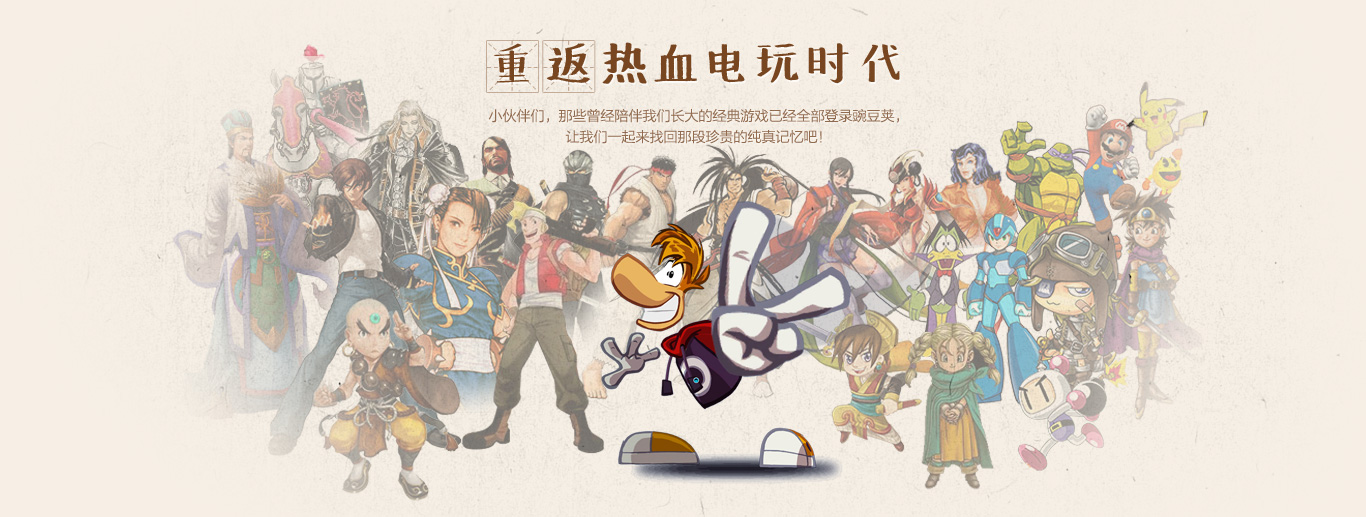
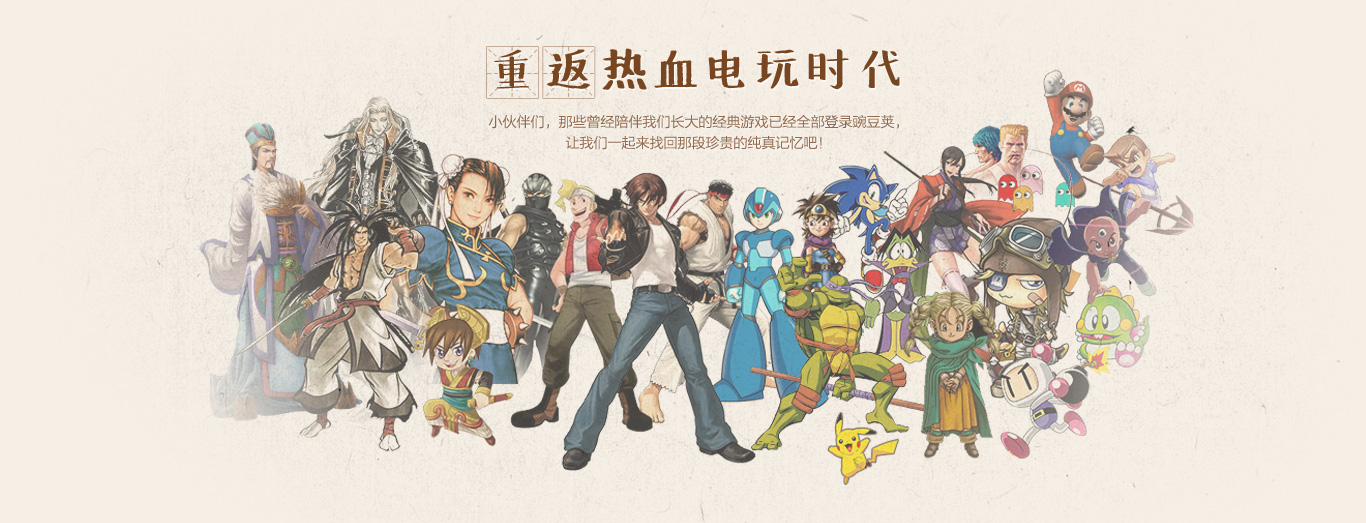
Fucking UBI

diff --git a/app/statics/campaign/retrogames.html b/app/statics/campaign/retrogames.html
@@ -7,7 +7,7 @@
     <meta name="kewords" content="安卓软件,安卓游戏,安卓软件下载,安卓游戏下载" >
     <meta name="description" content="编辑精选安卓HD平板应用专区专题，好玩的安卓软件和游戏尽在豌豆荚。" >
     <link rel="stylesheet" href="http://s.wdjimg.com/www/stylesheets/www/35716122.index.css"/>
-    <link rel="stylesheet" href="stylesheet/min_blood_web.css">
+    <link rel="stylesheet" href="stylesheet/blood_web.css">
 </head>
 <body>
 <!-- header -->
@@ -26,61 +26,8 @@
 <div class="b-topic">
     <h1>重返热血电玩时代</h1>
 </div>
+
 <div class="b-bg1">
-    <div class="b-container clearfix">
-        <div class="b-bigitem b-bgimg1">
-            <div class="b-app b-app-left">
-                <div class="b-app-icon">
-                    <a href="http://www.wandoujia.com/apps/com.pastagames.ro1mobile" target="_blank">
-                        <img alt="雷曼：丛林探险" src="http://img.wdjimg.com/campaign/retrogames/icon5122_TransBG.png" />
-                        <i class="b-app-first">首发</i>
-                    </a>
-                </div>
-                <div class="b-app-title"><a href="http://www.wandoujia.com/apps/com.pastagames.ro1mobile" target="_blank">雷曼：丛林探险</a></div>
-                <div class="b-app-install"><a class="button-green b-button-medium" href="http://apps.wandoujia.com/apps/com.pastagames.ro1mobile/download?pos=www/qr/dl">安 装</a></div>
-            </div>
-            <div class="b-detail">
-                <p>豌豆荚 <span class="b-c-green">独家首发</span></p>
-                <div class="b-step">
-                    <div class="b-step-title">参与方式</div>
-                    <div class="b-step-num b-c-green">1</div>
-                    <div class="b-step-desc">
-                        <span class="b-inner">
-                            通关后<span class="b-c-green">截图</span>
-                        </span>
-                        <i> </i>
-                    </div>
-                    <div class="b-step-next"> </div>
-                    <div class="b-step-num b-c-green">2</div>
-                    <div class="b-step-desc">
-                        <span class="b-inner">
-                            发微博写下一句话的<br/>
-                            <span class="b-c-green">游戏心得</span>
-                        </span>
-                        <i> </i>
-                    </div>
-                    <div class="b-step-next"> </div>
-                    <div class="b-step-num b-c-green">3</div>
-                    <div class="b-step-desc">
-                        <span class="b-inner">
-                            加话题 <span class="b-c-green">#重返热血电玩时代#</span><br/>
-                            <span class="b-c-green">@豌豆荚</span>
-                        </span>
-                        <i> </i>
-                    </div>
-                    <div class="b-step-next"> </div>
-                    <div class="b-step-share"><a target="_blank" href="http://service.weibo.com/share/share.php?appkey=1483181040&relateUid=1727978503&url=http%3A%2F%2Fwww.wandoujia.com%2Fcampaign%2Fretrogames.html&pic=http%3A%2F%2Fimg.wdjimg.com%2Fcampaign%2Fretrogames%2Fn_topic_wap.jpg&title=%23%E9%87%8D%E8%BF%94%E7%83%AD%E8%A1%80%E7%94%B5%E7%8E%A9%E6%97%B6%E4%BB%A3%23%20%E8%BF%99%E4%BA%9B%E9%99%AA%E4%BC%B4%E6%88%91%E4%BB%AC%E9%95%BF%E5%A4%A7%E7%9A%84%E8%80%81%E6%9C%8B%E5%8F%8B%EF%BC%8C%E4%BD%A0%E8%BF%98%E8%AE%B0%E5%BE%97%E5%87%A0%E4%B8%AA%EF%BC%9F%E6%95%B0%E5%8D%81%E6%AC%BE%E7%BB%8F%E5%85%B8%E6%B8%B8%E6%88%8F%E5%9C%A8%20%40%E8%B1%8C%E8%B1%86%E8%8D%9A%20%E6%97%A0%E9%99%90%E7%95%85%E7%8E%A9%EF%BC%8C%E8%BF%98%E6%9C%89%E9%99%90%E9%87%8F%E7%89%88%E6%B8%B8%E6%88%8F%E5%91%A8%E8%BE%B9%E9%80%81%E5%87%BA%EF%BC%8C%E8%AE%A9%E6%88%91%E4%BB%AC%E4%B8%80%E8%B5%B7%E9%87%8D%E8%BF%94%E7%83%AD%E8%A1%80%E7%94%B5%E7%8E%A9%E6%97%B6%E4%BB%A3%EF%BC%81%E8%AF%A6%E6%83%85%E7%82%B9%E5%87%BB%EF%BC%9A" onclick="_gaq._trackEvent('retrogames', 'weiboshare', 'leiman')"><img src="images/weibo_web.png"></a></div>
-                </div>
-                <p class="b-strong b-c-green">活动奖品：</p>
-                <p>一等奖 1名 PS3 + 雷曼正版光盘，在所有大小关卡都完美通过的玩家中抽出<br>(微博需包含最后一大关完美通关示意图，其他关卡通关情况会联系用户私下验证)；</p>
-                <p>二等奖 1名 PSV + 雷曼正版卡带，在通过所有死亡关卡的玩家中抽出 (微博需包<br>含最后一个死亡关卡通关示意图，其他关卡通关情况会联系用户私下验证)；</p>
-                <p class="b-small b-mt">* 获奖名单将于 2014 年 1 月 2 日公布在豌豆荚新浪官方微博；</p>
-                <p class="b-small">* 雷曼代理商 Kunpo games 会私信联系中奖用户验证结果并发放奖品；</p>
-            </div>
-        </div>
-    </div>
-</div>
-<div class="b-bg2">
     <div class="b-container clearfix">
         <div class="b-bigitem b-bgimg2">
             <div class="b-app b-app-right">
@@ -122,20 +69,20 @@
                         <i> </i>
                     </div>
                     <div class="b-step-next"> </div>
-                    <div class="b-step-share"><a target="_blank" href="http://service.weibo.com/share/share.php?appkey=1483181040&relateUid=1727978503&url=http%3A%2F%2Fwww.wandoujia.com%2Fcampaign%2Fretrogames.html&pic=http%3A%2F%2Fimg.wdjimg.com%2Fcampaign%2Fretrogames%2Fn_topic_wap.jpg&title=%23%E9%87%8D%E8%BF%94%E7%83%AD%E8%A1%80%E7%94%B5%E7%8E%A9%E6%97%B6%E4%BB%A3%23%20%40%E8%B1%8C%E8%B1%86%E8%8D%9A%20%40%E6%99%AF%E5%94%90%E6%B8%B8%E6%88%8F" onclick="_gaq._trackEvent('retrogames', 'weiboshare', 'tank')"><img src="images/weibo_web.png"></a></div>
+                    <div class="b-step-share"><a target="_blank" href="http://service.weibo.com/share/share.php?appkey=1483181040&relateUid=1727978503&url=http%3A%2F%2Fwww.wandoujia.com%2Fcampaign%2Fretrogames.html&pic=http%3A%2F%2Fimg.wdjimg.com%2Fcampaign%2Fretrogames%2Fl_topic_weibo.jpg&title=%23%E9%87%8D%E8%BF%94%E7%83%AD%E8%A1%80%E7%94%B5%E7%8E%A9%E6%97%B6%E4%BB%A3%23%20%40%E8%B1%8C%E8%B1%86%E8%8D%9A%20%40%E6%99%AF%E5%94%90%E6%B8%B8%E6%88%8F" onclick="_gaq._trackEvent('retrogames', 'weiboshare', 'tank')"><img src="images/weibo_web.png"></a></div>
                 </div>
                 <p class="b-strong b-c-green">活动奖品</p>
                 <p>一等奖 1 名送「T-90 式坦克」模型（1:35 规格）</p>
                 <p>二等奖 3 名送「国产 99 式坦克」模型（1:26 规格）</p>
                 <p>三等奖 5 名送「国产 99 式坦克」 模型（1:40 规格）</p>
                 <p>四等奖 10 名送小霸王游戏机一台</p>
-                <p class="b-small">* 获奖名单将于 12 月 30 日公布在景唐游戏新浪官方微博；</p>
+                <p class="b-small">* 获奖名单将于 1 月 2 日公布在景唐游戏新浪官方微博；</p>
                 <p class="b-small">* 我们将在 5 个工作日内，通过景唐游戏官方微博通知中奖用户，并发放奖品。</p>
             </div>
         </div>
     </div>
 </div>
-<div class="b-bg1">
+<div class="b-bg2">
     <div class="b-container clearfix">
         <div class="b-bigitem b-bgimg3">
             <div class="b-app b-app-left">
@@ -175,17 +122,17 @@
                         <i> </i>
                     </div>
                     <div class="b-step-next"> </div>
-                    <div class="b-step-share"><a target="_blank" href="http://service.weibo.com/share/share.php?appkey=1483181040&relateUid=1727978503&url=http%3A%2F%2Fwww.wandoujia.com%2Fcampaign%2Fretrogames.html&pic=http%3A%2F%2Fimg.wdjimg.com%2Fcampaign%2Fretrogames%2Fn_topic_wap.jpg&title=%23%E9%87%8D%E8%BF%94%E7%83%AD%E8%A1%80%E7%94%B5%E7%8E%A9%E6%97%B6%E4%BB%A3%23%20%40%E8%B1%8C%E8%B1%86%E8%8D%9A%20%40%E9%AD%82%E6%96%97%E7%BD%97" onclick="_gaq._trackEvent('retrogames', 'weiboshare', 'man')"><img src="images/weibo_web.png"></a></div>
+                    <div class="b-step-share"><a target="_blank" href="http://service.weibo.com/share/share.php?appkey=1483181040&relateUid=1727978503&url=http%3A%2F%2Fwww.wandoujia.com%2Fcampaign%2Fretrogames.html&pic=http%3A%2F%2Fimg.wdjimg.com%2Fcampaign%2Fretrogames%2Fl_topic_weibo.jpg&title=%23%E9%87%8D%E8%BF%94%E7%83%AD%E8%A1%80%E7%94%B5%E7%8E%A9%E6%97%B6%E4%BB%A3%23%20%40%E8%B1%8C%E8%B1%86%E8%8D%9A%20%40%E9%AD%82%E6%96%97%E7%BD%97" onclick="_gaq._trackEvent('retrogames', 'weiboshare', 'man')"><img src="images/weibo_web.png"></a></div>
                 </div>
                 <p class="b-strong b-c-green">活动奖品</p>
                 <p>100 个 Nerf 精英子弹玩具枪。</p>
-                <p class="b-small">* 获奖名单将于 12 月 30 日公布在魂斗罗新浪官方微博；</p>
+                <p class="b-small">* 获奖名单将于 1 月 2 日公布在魂斗罗新浪官方微博；</p>
                 <p class="b-small">* 我们将在 5 个工作日内，通过魂斗罗官方微博通知中奖用户，并发放奖品。</p>
             </div>
         </div>
     </div>
 </div>
-<div class="b-bg2">
+<div class="b-bg1">
     <div class="b-container clearfix">
         <ul class="b-applist clearfix">
             <li>
@@ -318,7 +265,7 @@
         </div>
         <div class="b-info">
             <div class="b-info-title">活动时间：</div>
-            <div class="b-info-time">12月23日—12月26日</div>
+            <div class="b-info-time">12月24日—12月27日</div>
             <p>* 活动最终解释权归豌豆荚所有</p>
         </div>
     </div>

diff --git a/app/statics/campaign/stylesheet/blood_web.css b/app/statics/campaign/stylesheet/blood_web.css
@@ -80,7 +80,7 @@ body {
 .b-topic{
 	width: 100%;
 	height: 523px;
-	background: url(img/new_topic_web.jpg) no-repeat center top #f6efe5;
+	background: url(img/topic_web.jpg) no-repeat center top #f6efe5;
 }
 
 .b-topic h1 {
@@ -356,7 +356,7 @@ body {
 	padding: 55px 40px 50px 110px;
 	width: 330px;
 	height: 280px;
-	background: url(img/calendar.png) no-repeat 110px 55px;
+	background: url(img/calendar.jpg) no-repeat 110px 55px;
 }
 
 .b-info {
